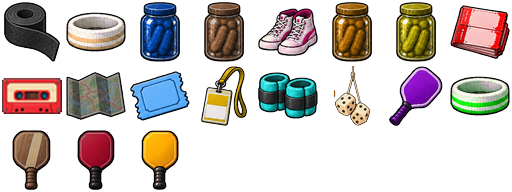
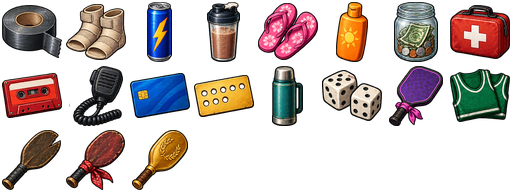
ROAD TRIP round two: the generated art in place of the placeholders (PORT-87)
All eight images from art/roadtrip-r5/PROMPTS.md accepted and imported
(REVIEW.md): the second gear and hazard sheets, the DINER and RIVALS pins,
the ROAD HOGS' RV, and the diner, old court, van interior and scrapbook
backdrops. The map's stop lines hide under PICK ONE and THE VAN.

diff --git a/art/roadtrip-r5/make_placeholders.py b/art/roadtrip-r5/make_placeholders.py
@@ -5,6 +5,7 @@ in game/assets/trip), at the exact size the real image will have, so the
 game runs and looks roughly right until PROMPTS.md's images replace them.
 Run from the repo root:  .venv/bin/python art/roadtrip-r5/make_placeholders.py
 Writes art/roadtrip-r5/placeholders/*.png and copies them into game/assets/trip.
+The real art is in now (REVIEW.md): running this again would overwrite it.
 """
 import colorsys
 import shutil

diff --git a/design/KNOWN_ISSUES.md b/design/KNOWN_ISSUES.md
@@ -33,7 +33,7 @@ Resolved, say how (the branch and the test), and move it down.
 | 79 | Minor | Godot port (touch pad, PORT-81): not tried on a real phone or tablet. Untested there: the buttons' size and place under a thumb, several fingers at once in mobile browsers (iOS Safari, Android Chrome), `DisplayServer.is_touchscreen_available()` per browser (AUTO hides the pad if it says no), the browser's own gestures (scroll, pinch-zoom, a long-press menu) and portrait (the game is 16:9; a phone held upright letterboxes it small). | Export the web build, open it on a phone. | Tested headless with synthetic touches and the e2e (real events through Godot's queue). TOUCH PAD ON forces the pad if detection fails. |
 | 82 | Minor | Godot port (ROAD TRIP, PORT-82): the trip's balance is a first guess: the stat step (2/64 a point), the starting 1s, the leg difficulties (EASY, MEDIUM, the final HARD), prices, cash and the GARAGE's miles were set by reasoning and a bot (`tools/trip_balance.gd`), not by play. | Play a few trips. | Open: tune from play (the knobs are in `meta/road_trip.gd` and `Paddles.TRIP_STEP_64THS`). |
 | 83 | Partly fixed | Godot port (ROAD TRIP, PORT-82): the trip's cosmetics stop at the van's paint and the dash ornament: the air freshener follows the ornament, and the cassettes and the map's pen colour (in the plan) aren't on the ladder. | The GARAGE. | The cassettes came with the story (PORT-87, ADR-092: THE MIXTAPE's four tapes play existing tracks on the map; no cassette is drawn in the deck). The pen colour is still open. |
-| 87 | Minor | Godot port (ROAD TRIP round two, PORT-87): eight images are placeholders: the second gear and hazard sheets, the DINER and RIVALS pins and the ROAD HOGS' RV are recoloured bits of the accepted art; the diner, the old court, the van's inside and the scrapbook show another backdrop (`TripArt.FALLBACK`) or a venue. | THE VAN, a diner, the old court, the SCRAPBOOK. | Open: prompts in `art/roadtrip-r5/PROMPTS.md`; `import.py` brings the art in. |
+| 87 | Resolved | Godot port (ROAD TRIP round two, PORT-87): eight images are placeholders: the second gear and hazard sheets, the DINER and RIVALS pins and the ROAD HOGS' RV are recoloured bits of the accepted art; the diner, the old court, the van's inside and the scrapbook show another backdrop (`TripArt.FALLBACK`) or a venue. | THE VAN, a diner, the old court, the SCRAPBOOK. | Fixed (2026-10-24): all eight generated from `art/roadtrip-r5/PROMPTS.md`, reviewed (`REVIEW.md`) and imported. |
 | 88 | Minor | Godot port (ROAD TRIP round two, PORT-87): the new items, sets, the diner's +3 and the ROAD HOGS' levels were set by reasoning, not play or the balance bot; sets can stack a lot of POWER (a geared trip reaches 20 sooner). | Play a few trips. | Open: tune from play (`data/trip.json`). |
 | 85 | Minor | Godot port (the painted venues, PORT-83): the announcer's welcome lines for WESTERN, ROOFTOP, PIRATES, MOTEL, FAIR, DRIVE-IN and MALL aren't recorded (the match opens with the format). | A match at one of them. | Open: the lines are in `design/announcer/ADDITIONS.md`, with the batch to record. |
 | 86 | Minor | Godot port (the painted venues, PORT-83): the scenery doesn't move with parallax (every layer at 1.0, ADR-088), so the camera's drift pans them as one picture; the near props at the MALL (the palm planter) and the ROOFTOP (the AC unit) reach a little above the near strip and can cover a player standing wide of the near corners. | A match there; serve from the near left. | Accepted (ADR-088): parallax would show the painted-in barrier's ghost. |

diff --git a/art/roadtrip-r5/REVIEW.md b/art/roadtrip-r5/REVIEW.md
@@ -1,0 +1,23 @@
+# ROAD TRIP round 5: review (2026-10-24)
+
+All eight images arrived at their exact sizes, the sheets on real
+transparency with every object inside its cell (no alpha on any cell
+edge, nothing in the empty cells). No letters, digits or logos anywhere,
+checked up close (the diner's neon, the jukebox, the bench). All
+**accepted** and imported (`import.py`); seen in the game with
+`tools/trip_shot.gd`.
+
+| Image | Verdict | Notes |
+|---|---|---|
+| trip_gear_icons_2 | Accepted | All 19 read at 32 px on the map strip. GRANDPA'S and the ROAD HOG paddle are more oval than the game's paddles, which suits them (old, battered). TEAM JERSEYS is one jersey, not two: fine. |
+| trip_hazard_icons_2 | Accepted | The red borders match sheet 1. |
+| trip_pins_2 | Accepted | The diner's cup and pie, the RV's grille; the greyed row is right. |
+| trip_rv | Accepted | Faces right as asked (the map flips it to park by the pin). |
+| trip_scene_diner | Accepted | Lovely. The van in the window is a cream-and-teal minivan seen from behind, not quite the canonical one; too small to matter. The checkerboard floor is busier than asked, but the speakers read over it. |
+| trip_scene_old_court | Accepted | The bench's scratches and hearts stand in for the two carved names without any letters. |
+| trip_van_interior | Accepted | Mostly under THE VAN's panels; its warm edges show. |
+| trip_scrapbook | Accepted | The middle stays plain paper where the SCRAPBOOK sits. |
+
+The placeholders (`placeholders/`, `make_placeholders.py`) are kept as
+history; running the script again would overwrite the real sheets in
+`game/assets/trip`, so don't (re-run `import.py` instead).

diff --git a/design/PORT_ROADMAP.md b/design/PORT_ROADMAP.md
@@ -501,8 +501,8 @@ the same request). Open: 36 and 40.
   with lasting rewards (three story paddles, cassettes for the map's
   music), the ROAD HOGS as recurring rivals from the second trip, a
   captain partner's own start, and the SCRAPBOOK on ROAD TRIP's page.
-  - Art: eight images to make, prompts in `art/roadtrip-r5/PROMPTS.md`;
-    placeholders in the game meanwhile (KNOWN_ISSUES #87).
+  - Art: eight images from `art/roadtrip-r5/PROMPTS.md`, all accepted
+    and imported (`REVIEW.md`).
   - Verified: the full suite plus the e2e (new: `test_road_trip`'s
     second-round tests, `test_trip_screens.test_the_story_across_trips`,
     `test_layout`'s VAN, SCRAPBOOK and story cases); screenshots of THE
@@ -519,8 +519,7 @@ the chain: each has a default I've gone with.
   starts on the second). Press Y (I on the keyboard) on the map for THE
   VAN. Say which new items or sets feel dull or too strong, whether the
   ROAD HOGS should be harder, and what you think of the story's beats
-  (they're in `data/trip.json` to edit). The art prompts are in
-  `art/roadtrip-r5/PROMPTS.md` whenever you want to generate them.
+  (they're in `data/trip.json` to edit).
 
 - **PORT-84 the lite Web build:** listen to the Web build's music and
   crowd (q1, the crowd in mono). Say if it's too rough, or if you want

diff --git a/design/ROAD_TRIP.md b/design/ROAD_TRIP.md
@@ -773,7 +773,7 @@ playthroughs." No sim change; ADR-092 has the details.
   A captain partner opens a trip with their own lines, and a second trip
   on has its own opening. The **SCRAPBOOK** on ROAD TRIP's page shows
   the chapters seen, replays them, and hints at the next.
-- **The art**: eight images, prompts in `art/roadtrip-r5/PROMPTS.md`;
-  placeholders until then.
+- **The art**: eight images from `art/roadtrip-r5/PROMPTS.md`, all
+  accepted and in the game (`REVIEW.md`).
 - **Screenshots**: `tools/trip_shot.gd` also takes `van`, `scrapbook`,
   `diner`, `rival`, `old_court` and `drive_in`.

diff --git a/decisions/ADR-092-trip-round-two.md b/decisions/ADR-092-trip-round-two.md
@@ -98,7 +98,9 @@ second hazard sheet, two pins, the ROAD HOGS' RV, the diner, the old
 court, the van's inside, the scrapbook. The sheets ship as placeholders
 (`make_placeholders.py`, recoloured bits of the accepted art); a backdrop
 not in yet shows another (`TripArt.FALLBACK`), or a story detour its
-venue. `import.py` brings the finished art in, checking sizes.
+venue. `import.py` brings the finished art in, checking sizes. All
+eight were generated, accepted and imported the same day
+(`art/roadtrip-r5/REVIEW.md`).
 
 ### The save
 
